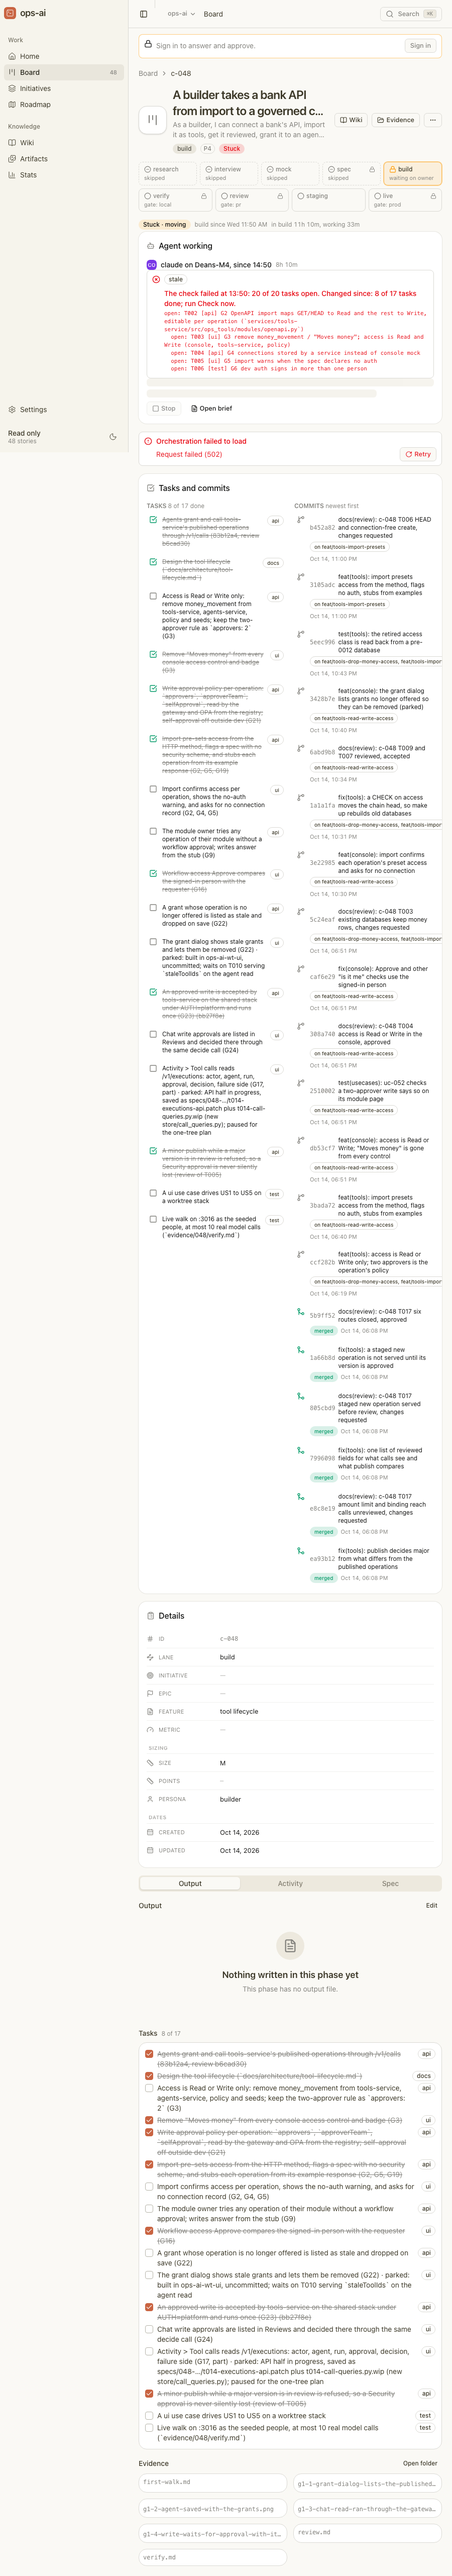
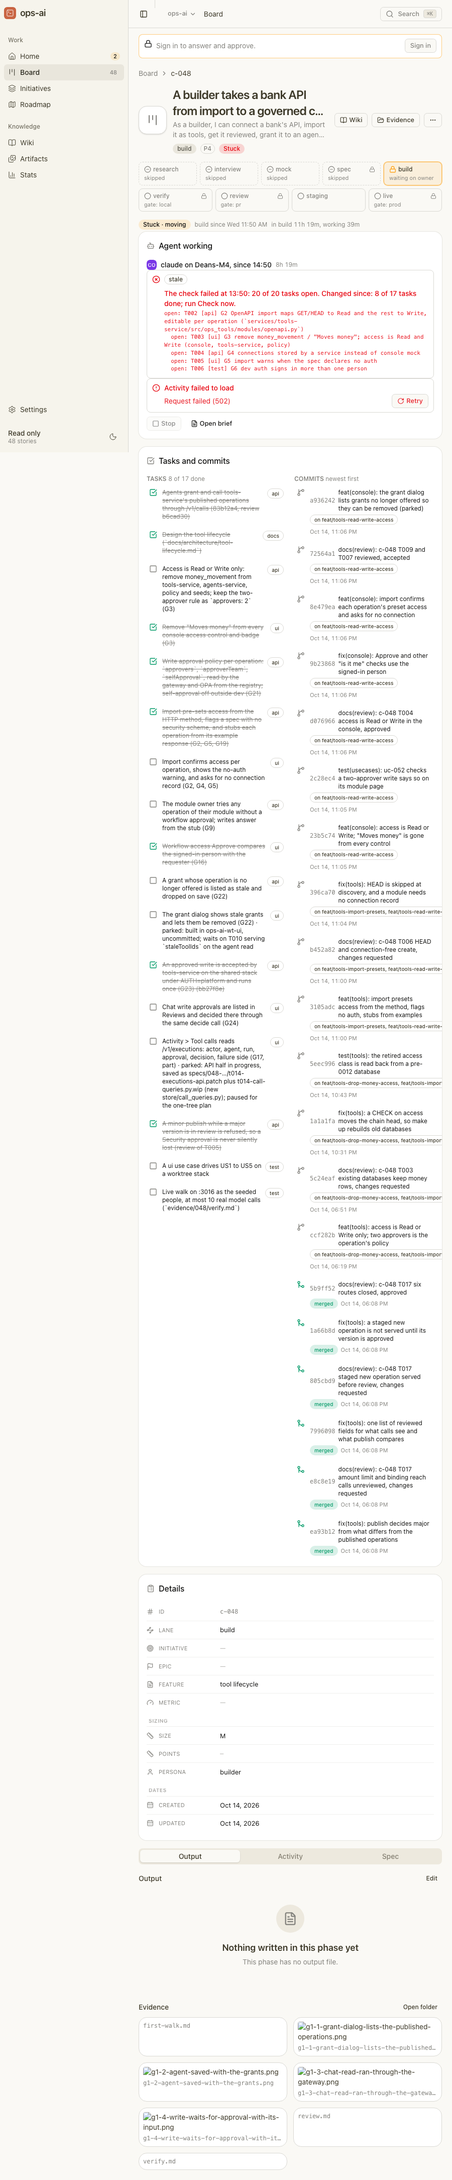
fix(ui): tasks show once, in the Tasks and commits panel
The Output tab kept its own task list, so the story page showed every task twice; the panel's tally
now comes from the journey's task counts instead of being counted in the browser.
journey-check --moving c-048 against the live hub: 7 PASS, commits 20 rows newest first a936242.

Card: c-140

diff --git a/workspace/components/shared/card-detail.tsx b/workspace/components/shared/card-detail.tsx
@@ -27,7 +27,6 @@ import { CurrentStepPanel } from '@/components/shared/current-step-panel';
 import { TasksAndCommits } from '@/components/shared/tasks-commits';
 import { OrchestrationSection } from '@/components/shared/orchestration-section';
 import { ActivityFeed } from '@/components/shared/activity-feed';
-import { Checkbox } from '@/components/ui/checkbox';
 import { CardOutputTab } from '@/components/shared/card-output-tab';
 import { CardActionMenu } from '@/components/shared/card-action-menu';
 import { useCard, useCardFull, useCardOutput, isMissing } from '@/hooks/use-api';
@@ -81,13 +80,11 @@ export function CardDetailSkeleton() {
   );
 }
 
-/** What the current phase has produced: its output file rendered, the task list, evidence and questions, each once. */
+/** What the current phase has produced: its output file rendered, evidence and questions, each once. The tasks are in the Tasks and commits panel. */
 function ProducedByStep({ card, full }: { card: CardT; full: ReturnType<typeof useCardFull> }) {
   const routes = useRoutes();
   const output = useCardOutput(card.id);
   const [editing, setEditing] = useState(false);
-  const tasks = full.data?.tasks ?? [];
-  const counts = full.data?.journey?.tasks;
   const evidence: (EvidenceFile | string)[] = full.data?.evidence ?? card.evidence ?? [];
   const answeredCount = (full.data?.questions ?? []).filter((q) => q.answer).length;
   // What earlier phases wrote (the card's own evidence list), shown when this phase has written nothing yet.
@@ -112,20 +109,6 @@ function ProducedByStep({ card, full }: { card: CardT; full: ReturnType<typeof u
           )
           : <EmptyState compact icon={FileText} title="Nothing written in this phase yet" description={output.data?.path ? `This phase writes ${output.data.path}.` : 'This phase has no output file.'} />}
       </section>
-      {tasks.length ? (
-        <section className="flex flex-col gap-2" data-testid="tasks">
-          <h3 className="text-sm font-medium">Tasks{counts ? <span className="ml-2 text-xs font-normal text-muted-foreground">{counts.done} of {counts.total}</span> : null}</h3>
-          <ul className="flex flex-col gap-1 rounded-xl border bg-card p-3">
-            {tasks.map((t) => (
-              <li key={t.id} className="flex items-start gap-2 text-sm">
-                <Checkbox checked={t.done} disabled aria-label={t.done ? 'done' : 'not done'} className="mt-0.5" />
-                <span className={t.done ? 'text-muted-foreground line-through' : undefined}>{t.text}</span>
-                {t.layer ? <Badge variant="outline" className="ml-auto rounded-full">{t.layer}</Badge> : null}
-              </li>
-            ))}
-          </ul>
-        </section>
-      ) : null}
       {evidence.length ? (
         <section className="flex flex-col gap-2" data-testid="evidence">
           <div className="flex items-center gap-2"><h3 className="text-sm font-medium">Evidence</h3><Button size="xs" variant="ghost" className="ml-auto" nativeButton={false} render={<Link href={routes.evidence(evidenceId(card.id))} />}>Open folder</Button></div>
@@ -184,7 +167,7 @@ export function CardDetailBody({ card, stacked }: { card: CardT; stacked?: boole
           Keyed by card: the drawer pager moving to another story must not carry this one's panel over. */}
       <CurrentStepPanel key={card.id} card={card} journey={journey} display={full.data?.card.display} rubric={full.data?.rubric} />
       <OrchestrationSection cardId={card.id} />
-      {full.data ? <TasksAndCommits tasks={full.data.tasks ?? []} commits={full.data.commits ?? []} /> : null}
+      {full.data ? <TasksAndCommits tasks={full.data.tasks ?? []} counts={full.data.journey?.tasks} commits={full.data.commits ?? []} /> : null}
       <RecordLayout rail={rail} className={stacked ? 'lg:grid-cols-1' : undefined}>
         <div className="flex min-w-0 flex-col gap-4">
           <Tabs defaultValue="output" key={`tabs-${card.id}`}>

diff --git a/workspace/components/shared/tasks-commits.tsx b/workspace/components/shared/tasks-commits.tsx
@@ -2,8 +2,7 @@
 
 // What the story has to do and what has landed: tasks.md's tasks with their ticks and layer, and
 // the commits carrying the story's trailer, newest first, each merged into the trunk or held on a
-// branch. Both come from GET /api/cards/:id/full as the API reads them; nothing is counted here
-// beyond the ticks shown.
+// branch. Both, and the done tally, come from GET /api/cards/:id/full; nothing is counted here.
 
 import { CheckSquare, GitCommit, GitMerge, GitBranch, Square } from 'lucide-react';
 import { Badge } from '@/components/ui/badge';
@@ -15,12 +14,11 @@ import type { StoryCommit, Task } from '@/lib/types';
 
 const when = (ms: number) => new Date(ms).toLocaleString(undefined, { month: 'short', day: 'numeric', hour: '2-digit', minute: '2-digit' });
 
-function Tasks({ tasks }: { tasks: Task[] }) {
+function Tasks({ tasks, counts }: { tasks: Task[]; counts?: { done: number; total: number } }) {
   if (!tasks.length) return <EmptyState compact icon={CheckSquare} title="No tasks yet" description="The plan phase writes tasks.md." />;
-  const done = tasks.filter((t) => t.done).length;
   return (
-    <section className="flex min-w-0 flex-col gap-1.5" data-testid="story-tasks" data-count={tasks.length} data-done={done}>
-      <h4 className="text-xs font-semibold text-muted-foreground uppercase">Tasks <span className="font-normal normal-case tabular-nums">{done} of {tasks.length} done</span></h4>
+    <section className="flex min-w-0 flex-col gap-1.5" data-testid="story-tasks" data-count={tasks.length}>
+      <h4 className="text-xs font-semibold text-muted-foreground uppercase">Tasks{counts ? <span className="ml-1 font-normal normal-case tabular-nums">{counts.done} of {counts.total} done</span> : null}</h4>
       <ItemGroup className="gap-0.5">
         {tasks.map((t) => (
           <Item key={t.id} size="sm" className="items-start px-1 py-1" data-testid="task-row" data-done={t.done || undefined}>
@@ -66,11 +64,12 @@ function Commits({ commits }: { commits: StoryCommit[] }) {
   );
 }
 
-export function TasksAndCommits({ tasks, commits }: { tasks: Task[]; commits: StoryCommit[] }) {
+/** `counts` is the journey's task tally from the API. */
+export function TasksAndCommits({ tasks, counts, commits }: { tasks: Task[]; counts?: { done: number; total: number }; commits: StoryCommit[] }) {
   return (
     <AttributeCard title="Tasks and commits" icon={CheckSquare} testId="tasks-commits">
       <div className="grid min-w-0 gap-4 md:grid-cols-2">
-        <Tasks tasks={tasks} />
+        <Tasks tasks={tasks} counts={counts} />
         <Commits commits={commits} />
       </div>
     </AttributeCard>
